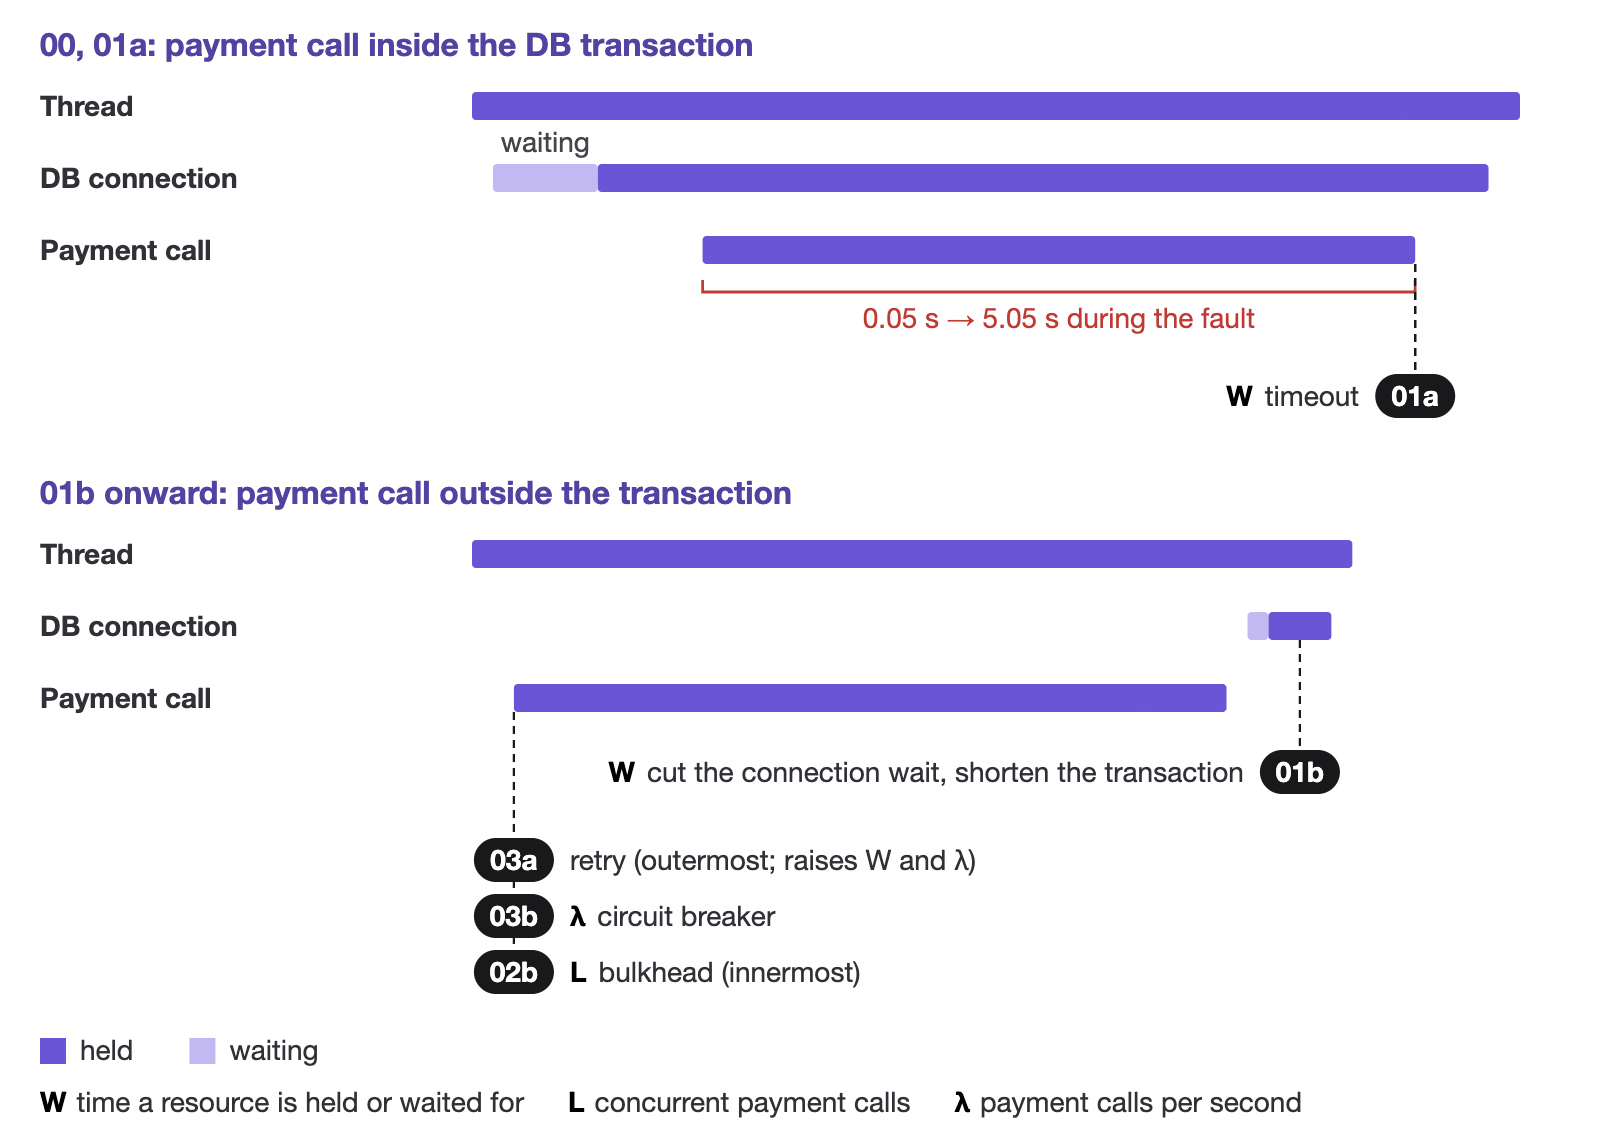
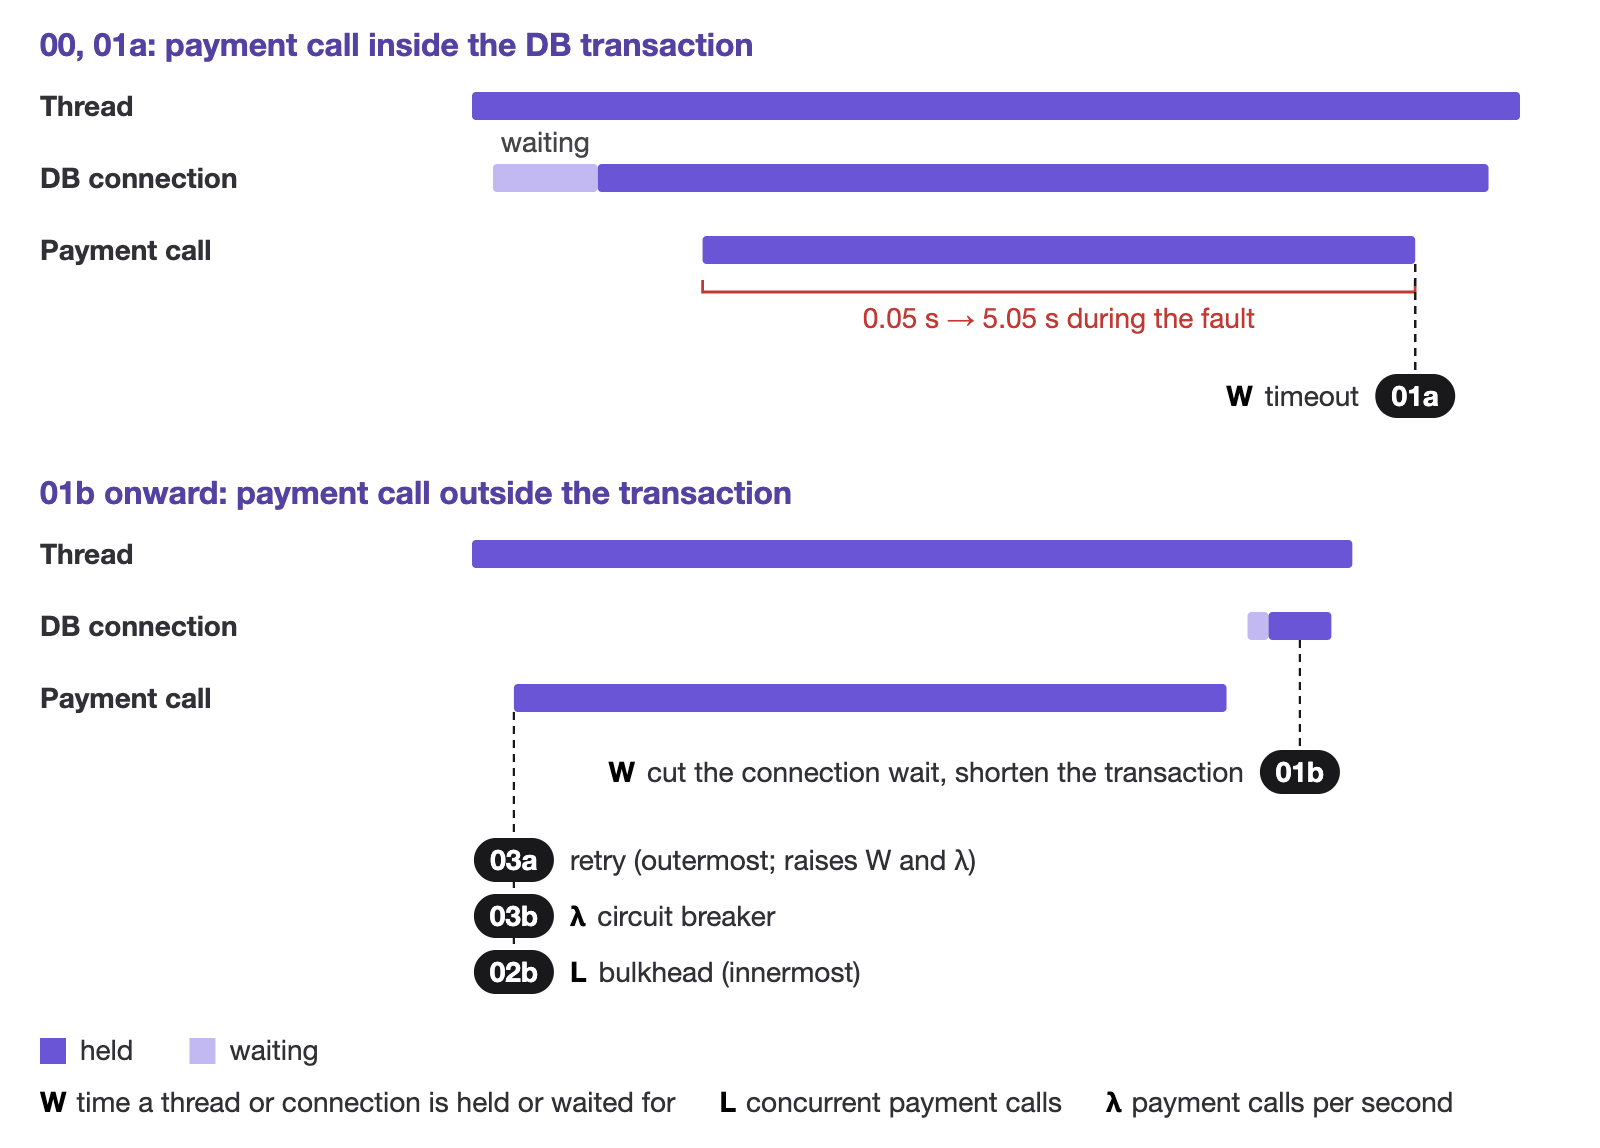
Article: name threads, connections and pools instead of metaphors
Resource, box, slot, hole, window and 'range it can be placed in' are
replaced by what they stand for: threads and connections, the pool and
its size, the bulkhead's concurrent calls, the seconds before the
breaker opens, and the timeout's lower and upper bounds (when the lower
exceeds the upper, nothing satisfies both). The two figures that used
those words follow.

Changed region(s): [[0.0938, 0.9451, 0.9062, 0.9756]]

diff --git a/tools/diagrams/timeout-window.html b/tools/diagrams/timeout-window.html
@@ -6,7 +6,7 @@
 <link rel="stylesheet" href="explainer.css">
 </head>
 <body>
-<!-- 決済 API のタイムアウトを置ける範囲。下限は平常時の p99 に余裕を足した値、上限は資源の上限 × 0.7 ÷ ピーク時の到着率。上の段は範囲がある形、下の 2 段は下限が上限を超えて範囲がない形 -->
+<!-- 決済 API のタイムアウトの下限と上限。下限は平常時の p99 に余裕を足した値、上限はプールの大きさ × 0.7 ÷ ピーク時の到着率。上の段は両方を満たす値がある形、下の 2 段は下限が上限を超えて両方を満たす値がない形 -->
 <svg id="fig" xmlns="http://www.w3.org/2000/svg"></svg>
 <script src="explainer.js"></script>
 <script>
@@ -19,7 +19,7 @@
   let lx = text(svg, LX, 28, 'lbl', tr('下限', 'Lower bound'));
   text(svg, lx + 8, 28, 'body', tr('＝ 下流の平常時の p99 ＋ 余裕（これより短いと、平常時にもタイムアウトする）', '= the downstream\'s normal p99 + headroom (shorter times out even in normal times)'));
   lx = text(svg, LX, 52, 'lbl', tr('上限', 'Upper bound'));
-  text(svg, lx + 8, 52, 'body', tr('＝ 資源の数 × 0.7 ÷ ピーク時の到着率（これより長いと、障害時に λW が資源の数を超える）', '= resource count × 0.7 ÷ peak arrival rate (longer lets λW exceed the count)'));
+  text(svg, lx + 8, 52, 'body', tr('＝ プールの大きさ × 0.7 ÷ ピーク時の到着率（これより長いと、障害時に λW がプールの大きさを超える）', '= pool size × 0.7 ÷ peak arrival rate (longer lets λW exceed the pool size)'));
 
   const TOP = 84, LANE = 138, BH = 24;
   const lanes = [
@@ -43,7 +43,7 @@
     } else {
       el(svg, 'rect', { class: 'over', x: X(hi), y: by, width: X(lo) - X(hi), height: BH });
     }
-    // 下限と上限：線と、範囲（または隙間）の外向きに名前と式
+    // 下限と上限：線と、あいだ（または隙間）の外向きに名前と式
     const left = Math.min(lo, hi) === lo ? 'lower' : 'upper';
     for (const [kind, [ms, formula]] of [['lower', lower], ['upper', upper]]) {
       el(svg, 'line', { x1: X(ms), y1: by - 6, x2: X(ms), y2: by + BH + 6, stroke: '#19191c', 'stroke-width': 1.6 });
@@ -57,9 +57,9 @@
     const [p, label] = pick;
     el(svg, 'line', { x1: X(p), y1: by - 8, x2: X(p), y2: by + BH + 8, stroke: '#5342a2', 'stroke-width': 3 });
     text(svg, X(p) + 8, by - 12, 'small ord b', label);
-    // 範囲の中（選んだ値の線を避ける）か、隙間の上に結論
-    if (lo < hi) text(svg, (X(p) + X(hi)) / 2, by + 17, 'lbl ord mid', tr('置ける範囲', 'valid range'));
-    else text(svg, (X(lo) + X(hi)) / 2, by - 12, 'lbl bad mid', tr('置ける範囲がない', 'no valid range'));
+    // 両方を満たすあいだ（選んだ値の線を避ける）か、隙間の上に結論
+    if (lo < hi) text(svg, (X(p) + X(hi)) / 2, by + 17, 'lbl ord mid', tr('両方を満たす', 'both met'));
+    else text(svg, (X(lo) + X(hi)) / 2, by - 12, 'lbl bad mid', tr('両方を満たす値がない', 'nothing meets both'));
   });
 
   // 共通の目盛り

diff --git a/tools/diagrams/defenses.html b/tools/diagrams/defenses.html
@@ -6,7 +6,7 @@
 <link rel="stylesheet" href="explainer.css">
 </head>
 <body>
-<!-- /orders 1 件が、スレッド・コネクション・決済 API の呼び出しを握る時間の入れ子と、各防御がそのどこに効くか。上の段は 00・01a の形、下の段は 01b 以降の形で、防御はそれを入れるシナリオの段に、シナリオの名前（README の表と同じ）で打つ。W は資源を握る・待つ時間、L と λ は決済 API の呼び出しについての値。棒の長さは模式で、比例していない -->
+<!-- /orders 1 件が、スレッド・コネクション・決済 API の呼び出しを握る時間の入れ子と、各防御がそのどこに効くか。上の段は 00・01a の形、下の段は 01b 以降の形で、防御はそれを入れるシナリオの段に、シナリオの名前（README の表と同じ）で打つ。W はスレッドやコネクションを握る・待つ時間、L と λ は決済 API の呼び出しについての値。棒の長さは模式で、比例していない -->
 <svg id="fig" xmlns="http://www.w3.org/2000/svg"></svg>
 <script src="explainer.js"></script>
 <script>
@@ -84,7 +84,7 @@
     lx = text(svg, lx + 20, LY, 'body', s) + 28;
   }
   lx = LX;
-  for (const [m, s] of [['W', tr('資源を握る・待つ時間', 'time a resource is held or waited for')], ['L', tr('決済 API を同時に呼ぶ数', 'concurrent payment calls')], ['λ', tr('決済 API を 1 秒に呼ぶ数', 'payment calls per second')]]) {
+  for (const [m, s] of [['W', tr('スレッドやコネクションを握る・待つ時間', 'time a thread or connection is held or waited for')], ['L', tr('決済 API を同時に呼ぶ数', 'concurrent payment calls')], ['λ', tr('決済 API を 1 秒に呼ぶ数', 'payment calls per second')]]) {
     lx = text(svg, lx, LY + 26, 'lbl', m) + 5;
     lx = text(svg, lx, LY + 26, 'body', s) + 22;
   }
